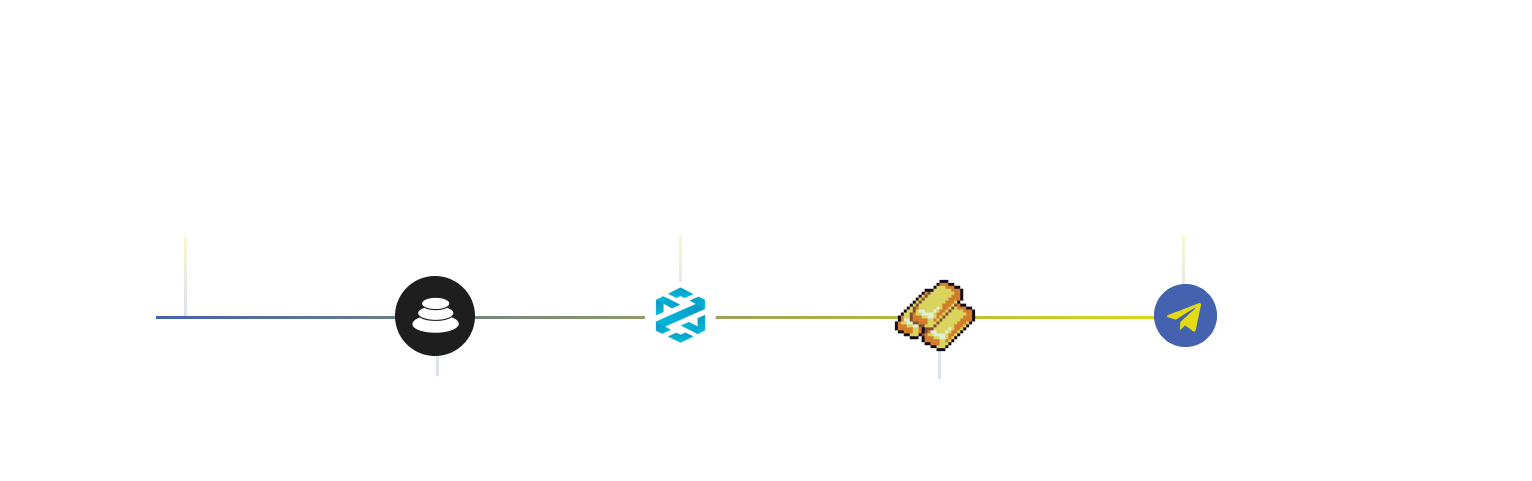
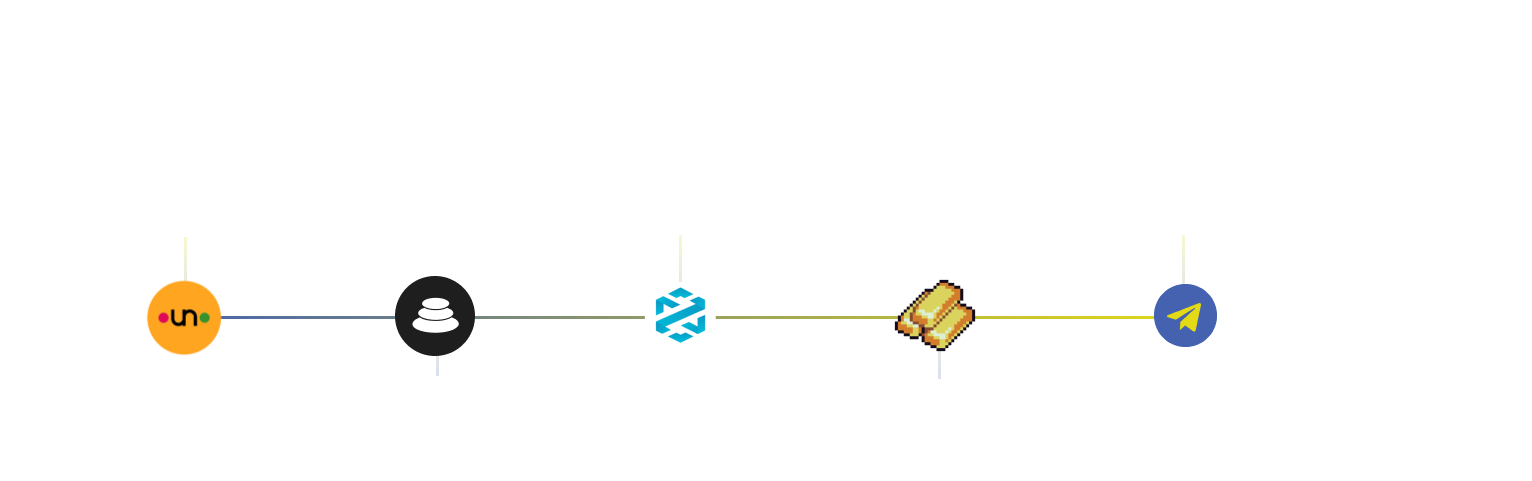
feat: fix links

Changed region(s): [[0.092, 0.5613, 0.1534, 0.7484]]

diff --git a/src/components/BuyGold.tsx b/src/components/BuyGold.tsx
@@ -10,7 +10,86 @@ export const BuyGold = () => {
         </div>
         <br />
         <div className="hidden md:flex justify-center items-center flex-col">
-          <img src={howtobuy} alt="howtobuy" width="100%" height={500} />
+          <svg
+            version="1.1"
+            xmlns="http://www.w3.org/2000/svg"
+            xmlnsXlink="http://www.w3.org/1999/xlink"
+            viewBox="0 0 1532 481"
+          >
+            <image width="1532" height="481" xlinkHref={howtobuy}></image>{" "}
+            <a
+              target="_blank"
+              rel="noopener noreferrer"
+              href="https://www.bungee.exchange/"
+            >
+              <rect
+                x="140"
+                y="273"
+                fill="#fff"
+                opacity="0"
+                width="95"
+                height="87"
+              ></rect>
+            </a>
+            <a
+              target="_blank"
+              rel="noopener noreferrer"
+              href="https://app.balancer.fi/"
+            >
+              <rect
+                x="388"
+                y="269"
+                fill="#fff"
+                opacity="0"
+                width="100"
+                height="100"
+              ></rect>
+            </a>
+            <a
+              target="_blank"
+              rel="noopener noreferrer"
+              href="https://www.dextools.io/app/en/base/pair-explorer/0x433f09ca08623e48bac7128b7105de678e37d988-0x833589fcd6edb6e08f4c7c32d4f71b54bda02913-0xbefd5c25a59ef2c1316c5a4944931171f30cd3e4s"
+            >
+              <rect
+                x="633"
+                y="266"
+                fill="#fff"
+                opacity="0"
+                width="100"
+                height="100"
+              ></rect>
+            </a>
+            <a
+              href="#"
+              onClick={(e) => {
+                e.preventDefault();
+                document.getElementById("yield-dashboard")?.scrollIntoView();
+              }}
+            >
+              <rect
+                x="887"
+                y="268"
+                fill="#fff"
+                opacity="0"
+                width="100"
+                height="100"
+              ></rect>
+            </a>
+            <a
+              target="_blank"
+              rel="noopener noreferrer"
+              href="https://t.me/+YUKhdQVv8KBmMjNk"
+            >
+              <rect
+                x="1134"
+                y="269"
+                fill="#fff"
+                opacity="0"
+                width="100"
+                height="100"
+              ></rect>
+            </a>
+          </svg>
         </div>
         <div className="flex flex-row md:hidden justify-evenly">
           <div className="flex flex-col gap-4">
